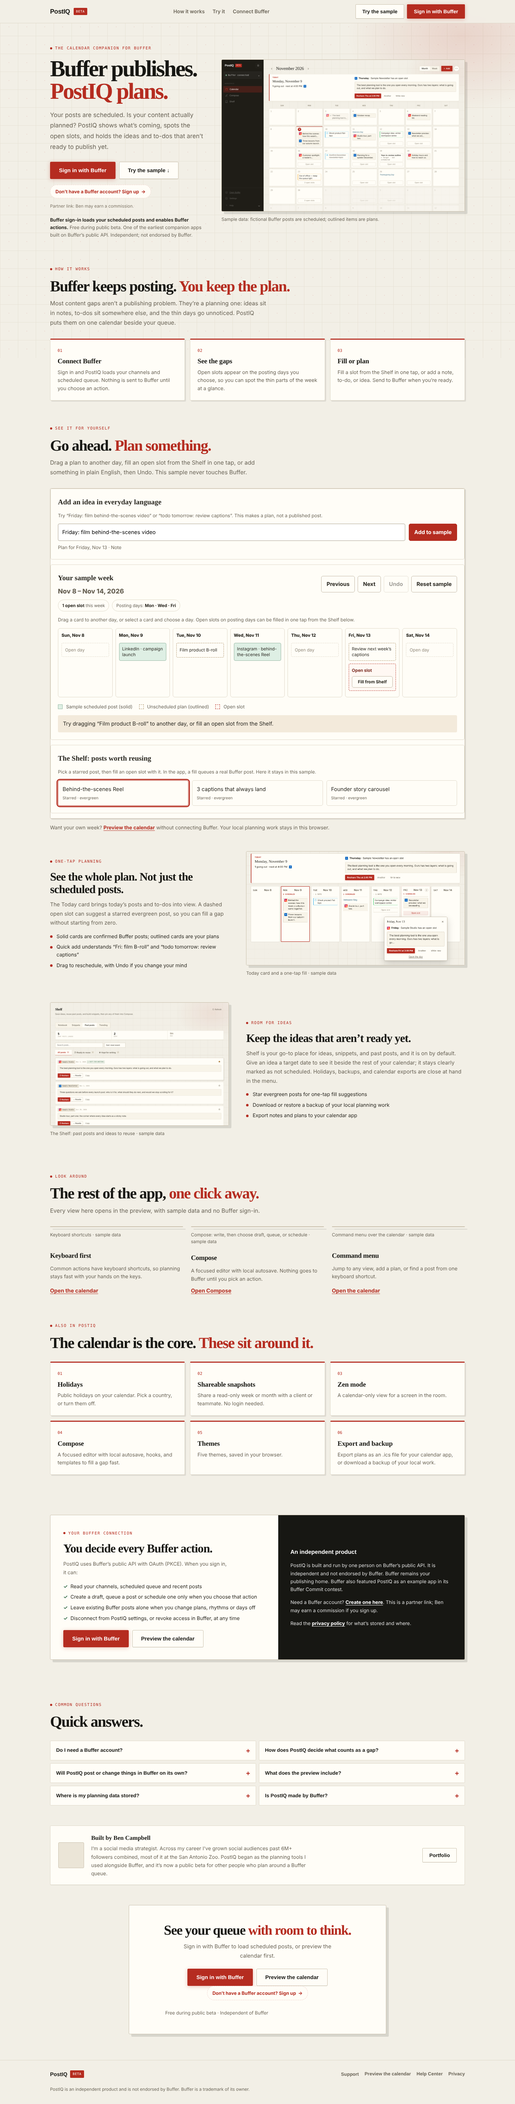
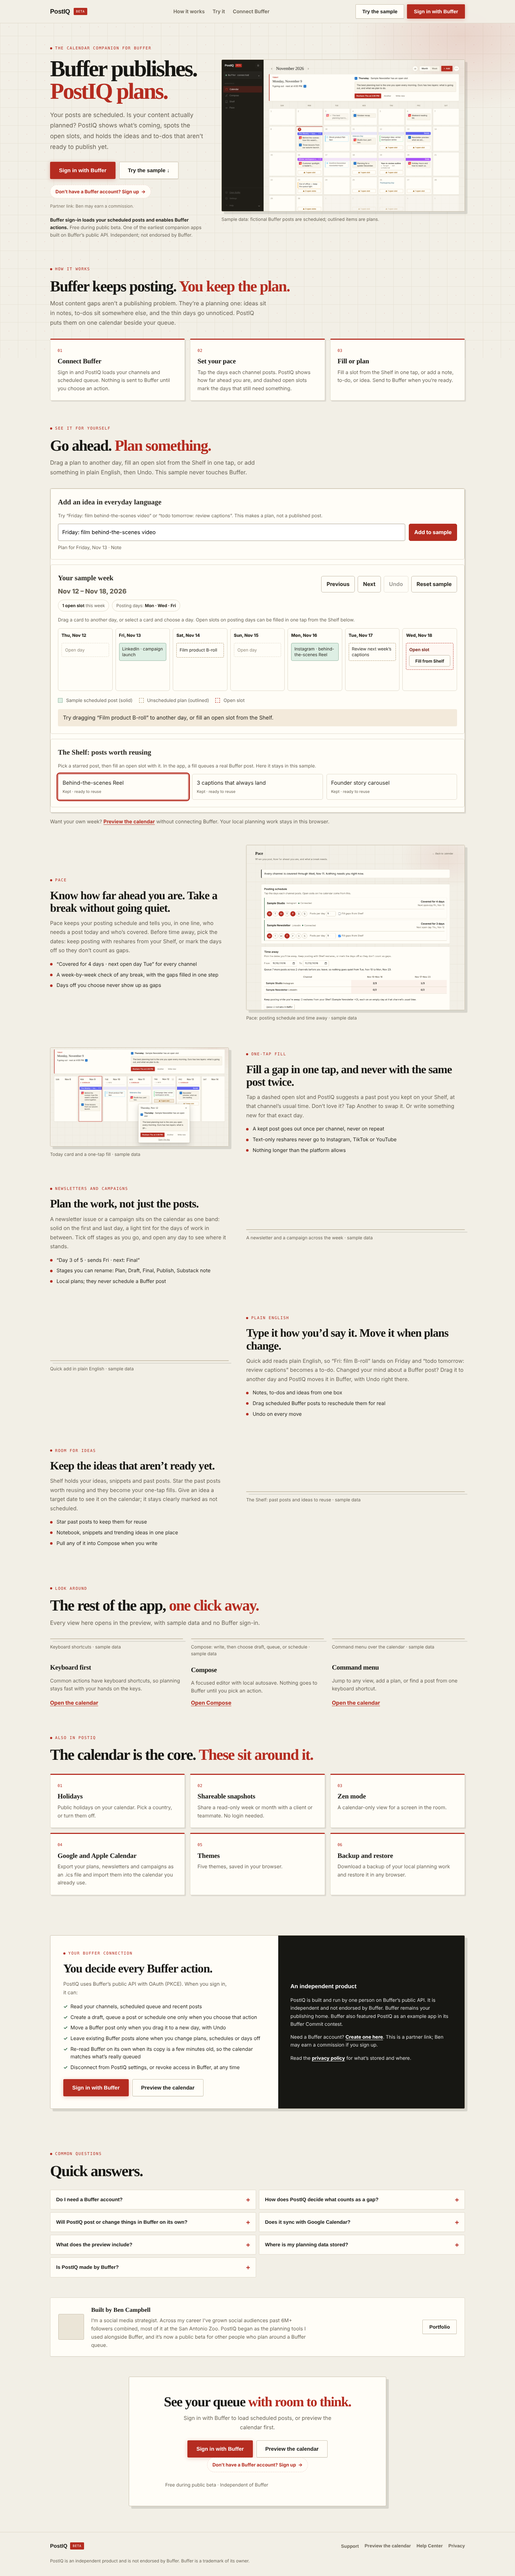
Landing: Pace, newsletters, plain English and real drag each get a beat; honest Google Calendar answer
- How it works step 2 is now 'Set your pace'.
- Five feature beats with fresh screenshots: Pace and time away, one-tap
  fill (Another, no repeats, media-aware), newsletters and campaigns as
  bands, plain-English quick add plus dragging a real Buffer post with
  Undo, and the Shelf ('kept' wording).
- Extras: Google and Apple Calendar export (.ics) replaces the duplicate
  Compose card; backup gets its own card.
- Trust list: drag moves a Buffer post only when you do it; PostIQ
  re-reads Buffer on its own.
- FAQ: gap answer points to Pace; Buffer-actions answer lists Reshare and
  drag; new 'Does it sync with Google Calendar?' (not live yet, .ics export).
- Meta descriptions updated. New captures: pace, campaign, quick add; the
  fill shot uses a LinkedIn gap so it shows a reshare.

Claude-Session: https://claude.ai/code/session_012foW19wMJPf3vbz5HRLgv9

diff --git a/index.html b/index.html
@@ -4,12 +4,12 @@
 <meta charset="UTF-8"/>
 <meta name="viewport" content="width=device-width, initial-scale=1"/>
 <title>PostIQ — Buffer publishes. PostIQ plans.</title>
-<meta name="description" content="PostIQ is an independent calendar-first planning companion for Buffer. See scheduled posts beside open slots, notes, to-dos, and dated ideas." />
+<meta name="description" content="PostIQ is an independent calendar-first planning companion for Buffer. See how far ahead you are, fill open slots in one tap, plan newsletters and campaigns, and take a break without going quiet." />
 <meta name="theme-color" content="#f2efe6" />
 <link rel="canonical" href="https://postiq.netlify.app/" />
 <meta property="og:site_name" content="PostIQ" />
 <meta property="og:title" content="PostIQ — Buffer publishes. PostIQ plans." />
-<meta property="og:description" content="A calendar-first planning companion for Buffer. See scheduled posts, open slots, notes, to-dos, dated ideas, holidays, and quick add in one calm view. Buffer publishes. PostIQ plans." />
+<meta property="og:description" content="A calendar-first planning companion for Buffer. Know how far ahead you are, fill gaps in one tap, plan newsletters and campaigns, and take a break without going quiet. Buffer publishes. PostIQ plans." />
 <meta property="og:image" content="https://postiq.netlify.app/postiq-og.png" />
 <meta property="og:image:width" content="1200" />
 <meta property="og:image:height" content="630" />
@@ -631,7 +631,7 @@ h1 em{font-style:normal;color:var(--brand);display:block;}
     </div>
     <div class="pillar-grid three reveal">
       <article class="pillar"><span class="pillar-num">01</span><h3>Connect Buffer</h3><p>Sign in and PostIQ loads your channels and scheduled queue. Nothing is sent to Buffer until you choose an action.</p></article>
-      <article class="pillar"><span class="pillar-num">02</span><h3>See the gaps</h3><p>Open slots appear on the posting days you choose, so you can spot the thin parts of the week at a glance.</p></article>
+      <article class="pillar"><span class="pillar-num">02</span><h3>Set your pace</h3><p>Tap the days each channel posts. PostIQ shows how far ahead you are, and dashed open slots mark the days that still need something.</p></article>
       <article class="pillar"><span class="pillar-num">03</span><h3>Fill or plan</h3><p>Fill a slot from the Shelf in one tap, or add a note, to-do, or idea. Send to Buffer when you’re ready.</p></article>
     </div>
   </div>
@@ -653,21 +653,45 @@ h1 em{font-style:normal;color:var(--brand);display:block;}
 <!-- FEATURE DETAIL -->
 <section class="features" aria-label="Planning tools in PostIQ">
   <div class="wrap">
-    <div class="feature reveal">
-      <div class="feature-copy"><div class="eyebrow"><span class="eyebrow-dot" aria-hidden="true"></span>One-tap planning</div>
-        <h3>See the whole plan. Not just the scheduled posts.</h3>
-        <p>The Today card brings today’s posts and to-dos into view. A dashed open slot can suggest a starred evergreen post, so you can fill a gap without starting from zero.</p>
-        <ul><li>Solid cards are confirmed Buffer posts; outlined cards are your plans</li><li>Quick add understands “Fri: film B-roll” and “todo tomorrow: review captions”</li><li>Drag to reschedule, with Undo if you change your mind</li></ul>
+    <div class="feature reveal" id="pace">
+      <div class="feature-copy"><div class="eyebrow"><span class="eyebrow-dot" aria-hidden="true"></span>Pace</div>
+        <h3>Know how far ahead you are. Take a break without going quiet.</h3>
+        <p>Pace keeps your posting schedule and tells you, in one line, who needs a post today and who’s covered. Before time away, pick the dates: keep posting with reshares from your Shelf, or mark the days off so they don’t count as gaps.</p>
+        <ul><li>“Covered for 4 days · next open day Tue” for every channel</li><li>A week-by-week check of any break, with the gaps filled in one step</li><li>Days off you choose never show up as gaps</li></ul>
       </div>
-      <figure><img class="product-shot" src="/images/product/fill-desktop.png" alt="PostIQ week view with the Today card and an open slot suggesting a starred evergreen post to reshare" loading="lazy"><figcaption class="mock-caption">Today card and a one-tap fill · sample data</figcaption></figure>
+      <figure><img class="product-shot" src="/images/product/pace-desktop.png" alt="PostIQ Pace page: a summary line, each channel's posting days and how far ahead it is, and a time-away planner" loading="lazy"><figcaption class="mock-caption">Pace: posting schedule and time away · sample data</figcaption></figure>
     </div>
     <div class="feature flip reveal">
+      <div class="feature-copy"><div class="eyebrow"><span class="eyebrow-dot" aria-hidden="true"></span>One-tap fill</div>
+        <h3>Fill a gap in one tap, and never with the same post twice.</h3>
+        <p>Tap a dashed open slot and PostIQ suggests a past post you kept on your Shelf, at that channel’s usual time. Don’t love it? Tap Another to swap it. Or write something new for that exact day.</p>
+        <ul><li>A kept post goes out once per channel, never on repeat</li><li>Text-only reshares never go to Instagram, TikTok or YouTube</li><li>Nothing longer than the platform allows</li></ul>
+      </div>
+      <figure><img class="product-shot" src="/images/product/fill-desktop.png" alt="PostIQ Today card and an open slot suggesting a kept post to reshare, with Another and Write new" loading="lazy"><figcaption class="mock-caption">Today card and a one-tap fill · sample data</figcaption></figure>
+    </div>
+    <div class="feature reveal" id="newsletters">
+      <div class="feature-copy"><div class="eyebrow"><span class="eyebrow-dot" aria-hidden="true"></span>Newsletters and campaigns</div>
+        <h3>Plan the work, not just the posts.</h3>
+        <p>A newsletter issue or a campaign sits on the calendar as one band: solid on the first and last day, a light tint for the days of work in between. Tick off stages as you go, and open any day to see where it stands.</p>
+        <ul><li>“Day 3 of 5 · sends Fri · next: Final”</li><li>Stages you can rename: Plan, Draft, Final, Publish, Substack note</li><li>Local plans; they never schedule a Buffer post</li></ul>
+      </div>
+      <figure><img class="product-shot" src="/images/product/campaign-desktop.png" alt="PostIQ calendar with a newsletter and a campaign drawn as bands across several days, and the day drawer showing their progress" loading="lazy"><figcaption class="mock-caption">A newsletter and a campaign across the week · sample data</figcaption></figure>
+    </div>
+    <div class="feature flip reveal">
+      <div class="feature-copy"><div class="eyebrow"><span class="eyebrow-dot" aria-hidden="true"></span>Plain English</div>
+        <h3>Type it how you’d say it. Move it when plans change.</h3>
+        <p>Quick add reads plain English, so “Fri: film B-roll” lands on Friday and “todo tomorrow: review captions” becomes a to-do. Changed your mind about a Buffer post? Drag it to another day and PostIQ moves it in Buffer, with Undo right there.</p>
+        <ul><li>Notes, to-dos and ideas from one box</li><li>Drag scheduled Buffer posts to reschedule them for real</li><li>Undo on every move</li></ul>
+      </div>
+      <figure><img class="product-shot" src="/images/product/quickadd-desktop.png" alt="PostIQ quick add box with a plain-English entry and a preview of the date it will land on" loading="lazy"><figcaption class="mock-caption">Quick add in plain English · sample data</figcaption></figure>
+    </div>
+    <div class="feature reveal">
       <div class="feature-copy"><div class="eyebrow"><span class="eyebrow-dot" aria-hidden="true"></span>Room for ideas</div>
         <h3>Keep the ideas that aren’t ready yet.</h3>
-        <p>Shelf is your go-to place for ideas, snippets, and past posts, and it is on by default. Give an idea a target date to see it beside the rest of your calendar; it stays clearly marked as not scheduled. Holidays, backups, and calendar exports are close at hand in the menu.</p>
-        <ul><li>Star evergreen posts for one-tap fill suggestions</li><li>Download or restore a backup of your local planning work</li><li>Export notes and plans to your calendar app</li></ul>
+        <p>Shelf holds your ideas, snippets and past posts. Star the past posts worth reusing and they become your one-tap fills. Give an idea a target date to see it on the calendar; it stays clearly marked as not scheduled.</p>
+        <ul><li>Star past posts to keep them for reuse</li><li>Notebook, snippets and trending ideas in one place</li><li>Pull any of it into Compose when you write</li></ul>
       </div>
-      <figure><img class="product-shot" src="/images/product/shelf-desktop.png" alt="PostIQ Shelf listing past posts with starred evergreen posts ready to reshare" loading="lazy"><figcaption class="mock-caption">The Shelf: past posts and ideas to reuse · sample data</figcaption></figure>
+      <figure><img class="product-shot" src="/images/product/shelf-desktop.png" alt="PostIQ Shelf listing past posts, with kept posts ready to reshare" loading="lazy"><figcaption class="mock-caption">The Shelf: past posts and ideas to reuse · sample data</figcaption></figure>
     </div>
   </div>
 </section>
@@ -723,9 +747,9 @@ h1 em{font-style:normal;color:var(--brand);display:block;}
       <article class="pillar"><span class="pillar-num">01</span><h3>Holidays</h3><p>Public holidays on your calendar. Pick a country, or turn them off.</p></article>
       <article class="pillar"><span class="pillar-num">02</span><h3>Shareable snapshots</h3><p>Share a read-only week or month with a client or teammate. No login needed.</p></article>
       <article class="pillar"><span class="pillar-num">03</span><h3>Zen mode</h3><p>A calendar-only view for a screen in the room.</p></article>
-      <article class="pillar"><span class="pillar-num">04</span><h3>Compose</h3><p>A focused editor with local autosave, hooks, and templates to fill a gap fast.</p></article>
+      <article class="pillar"><span class="pillar-num">04</span><h3>Google and Apple Calendar</h3><p>Export your plans, newsletters and campaigns as an .ics file and import them into the calendar you already use.</p></article>
       <article class="pillar"><span class="pillar-num">05</span><h3>Themes</h3><p>Five themes, saved in your browser.</p></article>
-      <article class="pillar"><span class="pillar-num">06</span><h3>Export and backup</h3><p>Export plans as an .ics file for your calendar app, or download a backup of your local work.</p></article>
+      <article class="pillar"><span class="pillar-num">06</span><h3>Backup and restore</h3><p>Download a backup of your local planning work and restore it in any browser.</p></article>
     </div>
   </div>
 </section>
@@ -741,7 +765,9 @@ h1 em{font-style:normal;color:var(--brand);display:block;}
         <ul class="connect-list">
           <li>Read your channels, scheduled queue and recent posts</li>
           <li>Create a draft, queue a post or schedule one only when you choose that action</li>
-          <li>Leave existing Buffer posts alone when you change plans, rhythms or days off</li>
+          <li>Move a Buffer post only when you drag it to a new day, with Undo</li>
+          <li>Leave existing Buffer posts alone when you change plans, schedules or days off</li>
+          <li>Re-read Buffer on its own when its copy is a few minutes old, so the calendar matches what’s really queued</li>
           <li>Disconnect from PostIQ settings, or revoke access in Buffer, at any time</li>
         </ul>
         <div class="connect-actions">
@@ -773,11 +799,15 @@ h1 em{font-style:normal;color:var(--brand);display:block;}
       </div>
       <div class="faq-item">
         <h3><button class="faq-q" type="button" aria-expanded="false" aria-controls="faq2"><span>How does PostIQ decide what counts as a gap?</span><span class="faq-icon" aria-hidden="true">+</span></button></h3>
-        <div class="faq-a" id="faq2" hidden>You choose posting days in the calendar’s Posting schedule. Dashed open slots show days where a confirmed Buffer post is not loaded; notes, drafts, and dated ideas remain plans.</div>
+        <div class="faq-a" id="faq2" hidden>You choose each channel’s posting days in Pace. A dashed open slot is a posting day with no confirmed Buffer post yet. Notes, drafts and dated ideas stay plans, and days you mark off never count as gaps.</div>
       </div>
       <div class="faq-item">
         <h3><button class="faq-q" type="button" aria-expanded="false" aria-controls="faq3"><span>Will PostIQ post or change things in Buffer on its own?</span><span class="faq-icon" aria-hidden="true">+</span></button></h3>
-        <div class="faq-a" id="faq3" hidden>No. Content goes to Buffer only when you choose Draft, Queue or Schedule. Changing a rhythm, marking days off, or planning a target date never moves, cancels or deletes a Buffer post.</div>
+        <div class="faq-a" id="faq3" hidden>No. Buffer changes only when you take an action: Draft, Queue, Schedule, a one-tap Reshare, or dragging a Buffer post to a new day (with Undo). Changing your schedule, marking days off, or planning a newsletter never moves, cancels or deletes a Buffer post.</div>
+      </div>
+      <div class="faq-item">
+        <h3><button class="faq-q" type="button" aria-expanded="false" aria-controls="faq7"><span>Does it sync with Google Calendar?</span><span class="faq-icon" aria-hidden="true">+</span></button></h3>
+        <div class="faq-a" id="faq7" hidden>Not live yet. You can export your plans, newsletters and campaigns as an .ics file from the calendar’s ⋯ menu and import it into Google Calendar or Apple Calendar. Your Buffer posts stay in Buffer.</div>
       </div>
       <div class="faq-item">
         <h3><button class="faq-q" type="button" aria-expanded="false" aria-controls="faq4"><span>What does the preview include?</span><span class="faq-icon" aria-hidden="true">+</span></button></h3>

diff --git a/scripts/capture-landing-screenshots.js b/scripts/capture-landing-screenshots.js
@@ -61,6 +61,7 @@ function seed({ nowIso }) {
     postingDays: ['MON', 'WED', 'FRI'],
     channelPostingDays: { 'sample-ig': ['MON', 'WED', 'FRI'], 'sample-li': ['MON', 'THU'] },
     channelTargets: { 'sample-ig': 1, 'sample-li': 1 },
+    channelReshare: { 'sample-li': true },
     daysOff: [{ channelId: '*', start: day(25), end: day(29) }],
   };
   const notebook = [
@@ -85,6 +86,7 @@ function seed({ nowIso }) {
   set('postiq_getting_started_dismissed', '1');
   set('postiq.workspacePreferences', { planning: true, create: true, ideas: true });
   set('postiq_add_hint_seen', '1');
+  set('postiq_shelf_tip_seen', '1');
   // A starred evergreen post, so the Today card can offer a one-tap fill.
   set('postiq_library_starred_v1', ['pub1']);
   const past = [
@@ -99,6 +101,13 @@ function seed({ nowIso }) {
   set('postiq_holidays_v1', { country: 'US', cache: {
     'US-2026': { ts, list: [{ date: '2026-11-11', name: 'Veterans Day' }, { date: '2026-11-26', name: 'Thanksgiving Day' }] },
     'US-2027': { ts, list: [] } } });
+  // A newsletter issue and a campaign, drawn as bands across their days.
+  set('postiq_campaigns_v1', [
+    { id: 'camp-feed', type: 'newsletter', title: 'The Weekly — Issue 14', start: day(0), end: day(4), color: '#6366f1',
+      stages: [{ label: 'Plan', done: true }, { label: 'Draft', done: true }, { label: 'Final', done: false }, { label: 'Publish', done: false }, { label: 'Substack note', done: false }] },
+    { id: 'camp-winter', type: 'campaign', title: 'Winter workspace series', start: day(7), end: day(11), color: '#a855f7',
+      stages: [{ label: 'Plan', done: true }, { label: 'Build', done: false }, { label: 'Launch', done: false }, { label: 'Wrap', done: false }] },
+  ]);
   set('postiq_beta_banner_seen_persist', '1');
   sessionStorage.setItem('postiq_beta_banner_seen', '1');
   if (!localStorage.getItem('postiq_notebook_v1')) set('postiq_notebook_v1', notebook);
@@ -148,7 +157,7 @@ async function run() {
         await page.keyboard.press('Escape');
         await page.evaluate(() => setCalendarView('week'));
         await page.waitForTimeout(200);
-        const slot = page.locator('#calWeek [data-calendar-date="2026-11-13"] .day-gap-slot');
+        const slot = page.locator('#calWeek [data-calendar-date="2026-11-12"] .day-gap-slot');
         await slot.click();
         await page.waitForSelector('.fill-pop');
         const box = await page.evaluate(() => {
@@ -168,6 +177,37 @@ async function run() {
         const main = await page.evaluate(() => { const r = document.querySelector('.main').getBoundingClientRect(); return { x: r.left, y: 0, width: r.width, height: Math.min(innerHeight, 820) }; });
         await page.screenshot({ animations: 'disabled', path: path.join(outDir, 'shelf-desktop.png'), clip: main });
         await page.evaluate(() => activateView('calendarView', 'screenshot'));
+
+        // "Pace": the summary line, per-channel schedules, and the time-away planner.
+        await page.evaluate(() => activateView('suiteView', 'screenshot'));
+        await page.waitForSelector('#paceSummary:not([hidden])');
+        await page.waitForTimeout(250);
+        const paceBox = await page.evaluate(() => { const r = document.querySelector('.main').getBoundingClientRect(); return { x: r.left, y: 0, width: r.width, height: innerHeight }; });
+        await page.screenshot({ animations: 'disabled', path: path.join(outDir, 'pace-desktop.png'), clip: paceBox });
+        await page.evaluate(() => activateView('calendarView', 'screenshot'));
+
+        // "Newsletters and campaigns": the month's first weeks, where the bands run.
+        await page.waitForSelector('#calGrid .camp-band.is-start');
+        await page.waitForTimeout(250);
+        const campBox = await page.evaluate(() => {
+          const cells = [...document.querySelectorAll('#calGrid .cal-day')];
+          const first = cells[7].getBoundingClientRect(), last = cells[20].getBoundingClientRect();
+          return { x: first.left - 16, y: first.top - 14, width: last.right - first.left + 32, height: last.bottom - first.top + 30 };
+        });
+        await page.screenshot({ animations: 'disabled', path: path.join(outDir, 'campaign-desktop.png'), clip: campBox });
+
+        // "Plain English": quick add with an entry typed and its date preview.
+        await page.evaluate(() => PostIQQuickAdd.open());
+        await page.keyboard.type('Fri: film B-roll for the winter series');
+        await page.waitForTimeout(250);
+        const qaBox = await page.evaluate(() => {
+          // The box opens under the header's Add button; frame it with the week below.
+          const p = document.getElementById('quickAddPop').getBoundingClientRect();
+          const x = Math.max(0, p.right - 760), y = Math.max(0, p.top - 70);
+          return { x, y, width: Math.min(innerWidth - x, 800), height: Math.min(innerHeight - y, 420) };
+        });
+        await page.screenshot({ animations: 'disabled', path: path.join(outDir, 'quickadd-desktop.png'), clip: qaBox });
+        await page.evaluate(() => PostIQQuickAdd.close({ restoreFocus: false }));
 
         // "Look around": Compose with a sample draft, without the Buffer connection state.
         await page.evaluate(() => activateView('composerView', 'screenshot'));

diff --git a/tests/landing-tour.test.js b/tests/landing-tour.test.js
@@ -27,7 +27,9 @@ assert.doesNotMatch(landing, /href="[^"]*tour=1/, 'one preview entry point, not 
 const shots = [...landing.matchAll(/src="\/images\/product\/([a-z-]+\.png)"/g)].map(m => m[1]);
 assert.equal(new Set(shots).size, shots.length, `each landing image is different: ${shots.join(', ')}`);
 for (const shot of shots) assert.ok(require('node:fs').existsSync(require('node:path').join(__dirname, '..', 'images', 'product', shot)), `${shot} exists`);
-assert.match(landing, /Today card[\s\S]*Quick add[\s\S]*Drag to reschedule/);
+assert.match(landing, /id="pace"[\s\S]*Take a break without going quiet[\s\S]*Today card[\s\S]*id="newsletters"[\s\S]*Quick add reads plain English[\s\S]*moves it in Buffer/, 'Pace, one-tap fill, newsletters, plain English and drag each get a beat');
+assert.match(landing, /Does it sync with Google Calendar\?[\s\S]*Not live yet/, 'no Google Calendar sync claim');
+for (const shot of ['pace-desktop.png', 'campaign-desktop.png', 'quickadd-desktop.png']) assert.ok(landing.includes(shot), `${shot} is on the page`);
 
 assert.ok(app.includes('./js/features/tour.js') && app.includes('./css/app/tour.css'));
 assert.ok(!app.includes('onboarding.js') && !sw.includes('onboarding'), 'the tour is the only onboarding');

diff --git a/js/landing-demo.js b/js/landing-demo.js
@@ -230,7 +230,7 @@ function initSample(root, parser, variant) {
       btn.setAttribute('aria-pressed', String(s.id === shelfPick));
       btn.textContent = s.title;
       const meta = document.createElement('small');
-      meta.textContent = 'Starred · evergreen';
+      meta.textContent = 'Kept · ready to reuse';
       btn.append(meta);
       btn.addEventListener('click', () => {
         shelfPick = s.id;

diff --git a/sw.js b/sw.js
@@ -1,4 +1,4 @@
-const CACHE = 'postiq-v36-editorial-default';
+const CACHE = 'postiq-v37-editorial-default';
 // Precache list mirrors the assets app.html loads (scripts/check-project.js verifies it).
 const SHELL = [
   '/',
